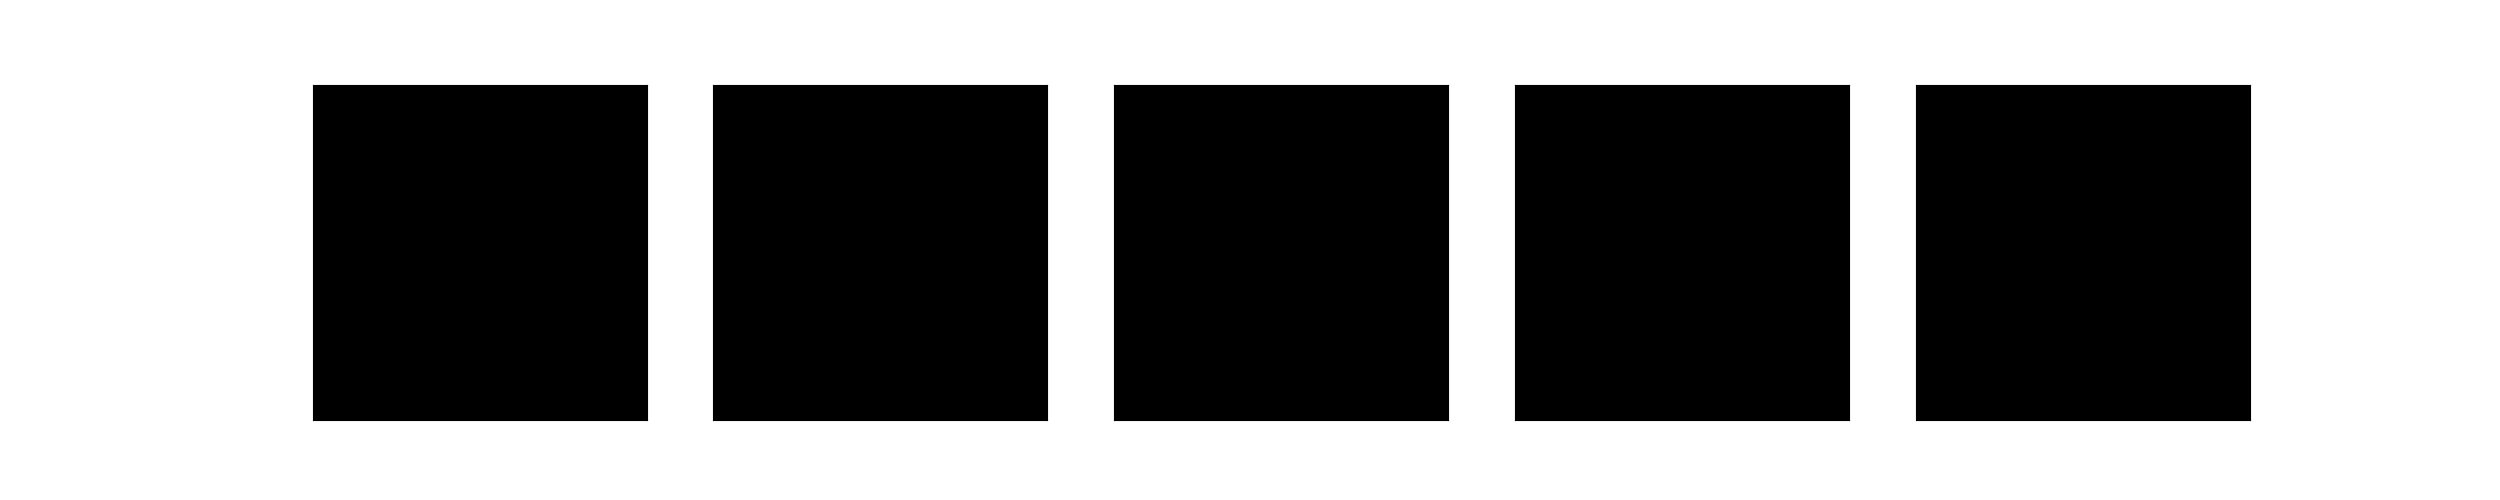
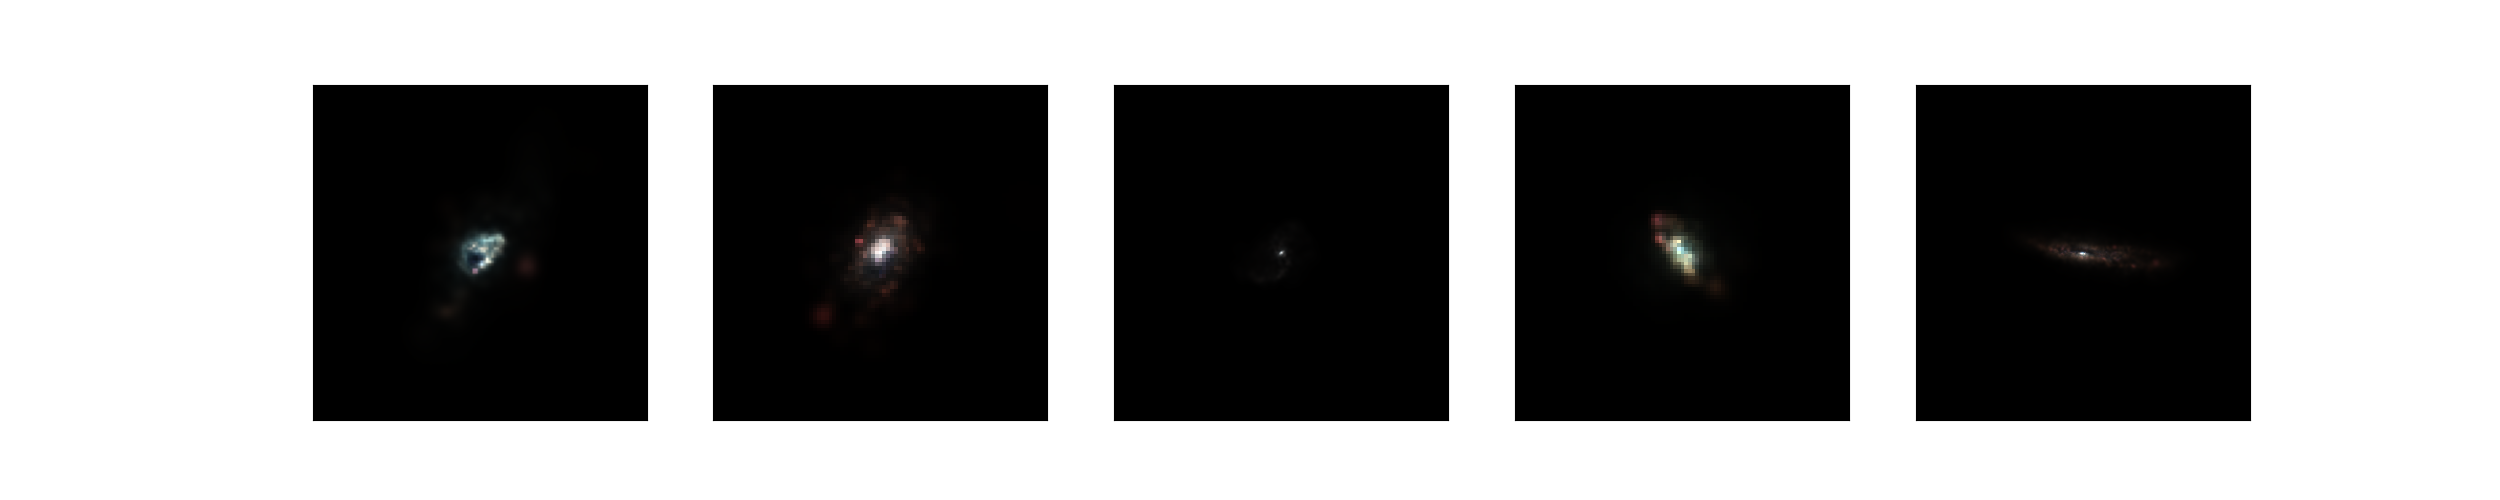
Code

diff --git a/tng_images.py b/tng_images.py
@@ -9,19 +9,19 @@ pd.set_option('display.max_columns', None)
 pd.set_option('display.max_rows', None)
 
 
-file = tarfile.open("/cosma7/data/durham/dc-howi1/project/TNG100/sdss_095.tar")
-
-# for member in file.getmembers():
-#     if member.name.startswith("sdss/snapnum_095/data/"):
-#         print(member.name)
-
-# file.extractall(path="sdss/snapnum_095/data/")
-
-file.extract("sdss/snapnum_095/data/broadband_540856.fits")
-file.extract("sdss/snapnum_095/data/broadband_546348.fits")
-file.extract("sdss/snapnum_095/data/broadband_166270.fits")
-file.extract("sdss/snapnum_095/data/broadband_247336.fits")
-file.extract("sdss/snapnum_095/data/broadband_391637.fits")
+# file = tarfile.open("/cosma7/data/durham/dc-howi1/project/TNG100/sdss_095.tar")
+#
+# # for member in file.getmembers():
+# #     if member.name.startswith("sdss/snapnum_095/data/"):
+# #         print(member.name)
+#
+# # file.extractall(path="sdss/snapnum_095/data/")
+#
+# file.extract("sdss/snapnum_095/data/broadband_540856.fits")
+# file.extract("sdss/snapnum_095/data/broadband_546348.fits")
+# file.extract("sdss/snapnum_095/data/broadband_166270.fits")
+# file.extract("sdss/snapnum_095/data/broadband_247336.fits")
+# file.extract("sdss/snapnum_095/data/broadband_391637.fits")
 
 
 
@@ -45,13 +45,16 @@ hdu_list_5 = fits.open("sdss/snapnum_095/data/broadband_391637.fits")
 image_5 = hdu_list_5[0].data
 # image_5 = np.array(image_5[0:3]).T
 
-for i in range(0, 3):
+for i in range(0, 4):
     image_1[i] = image_1[i]/image_1[i].max()
-    image_2[i] = image_2[i] / image_2[i].max()
-    image_3[i] = image_3[i] / image_3[i].max()
-    image_4[i] = image_4[i] / image_4[i].max()
-    image_5[i] = image_5[i] / image_5[i].max()
+    image_2[i] = image_2[i]/image_2[i].max()
+    image_3[i] = image_3[i]/image_3[i].max()
+    image_4[i] = image_4[i]/image_4[i].max()
+    image_5[i] = image_5[i]/image_5[i].max()
 
+    print(image_1[i].max())
+
+print(image_1.max())
 
 image_1 = np.array(image_1[0:3]).T
 image_2 = np.array(image_2[0:3]).T
@@ -68,11 +71,11 @@ image_5 = np.array(image_5[0:3]).T
 
 fig, axs = plt.subplots(1, 5, figsize=(25, 5))
 
-axs[0].imshow(image_1/255)
-axs[1].imshow(image_2/255)
-axs[2].imshow(image_3/255)
-axs[3].imshow(image_4/255)
-axs[4].imshow(image_5/255)
+axs[0].imshow(image_1)
+axs[1].imshow(image_2)
+axs[2].imshow(image_3)
+axs[3].imshow(image_4)
+axs[4].imshow(image_5)
 
 for i in range(0, 5):
     axs[i].get_yaxis().set_visible(False)
@@ -87,6 +90,7 @@ for i in range(0, 5):
 # for i in range(0, 4):
 #     image[i] = image[i]/image[i].max()
 #
+# print(image.max())
 #
 # image = np.array(image[0:3]).T
 # plt.imshow(image)

diff --git a/vae_eagle.py b/vae_eagle.py
@@ -15,11 +15,11 @@ from matplotlib import image as mpimg
 # tf.config.list_physical_devices('GPU')
 
 
-encoding_dim = 4
+encoding_dim = 3
 
 # select which gpu to use
 os.environ["CUDA_DEVICE_ORDER"]="PCI_BUS_ID"
-os.environ["CUDA_VISIBLE_DEVICES"]="9"
+os.environ["CUDA_VISIBLE_DEVICES"]="1"
 
 # number of epochs for run
 epochs = 300
